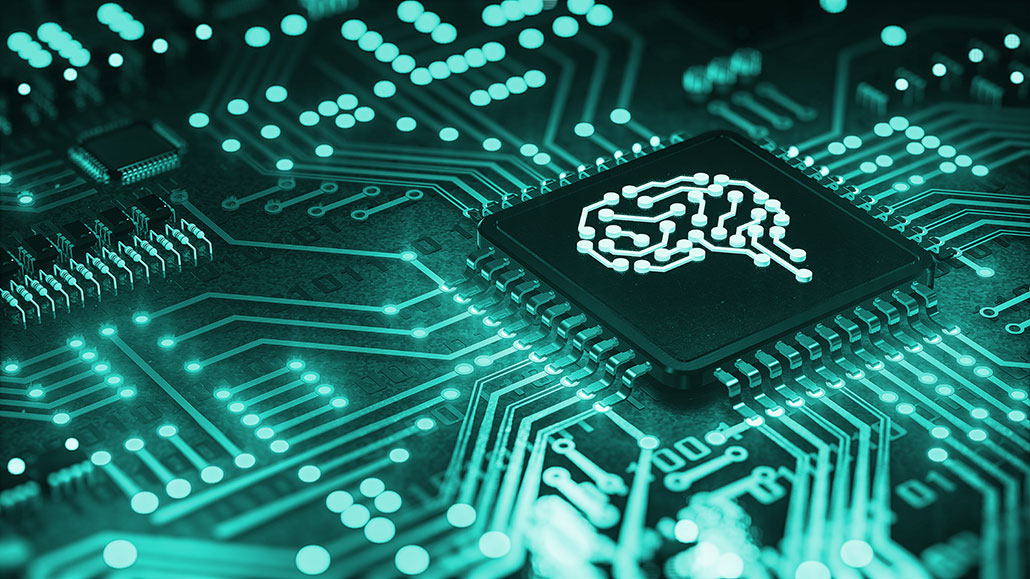
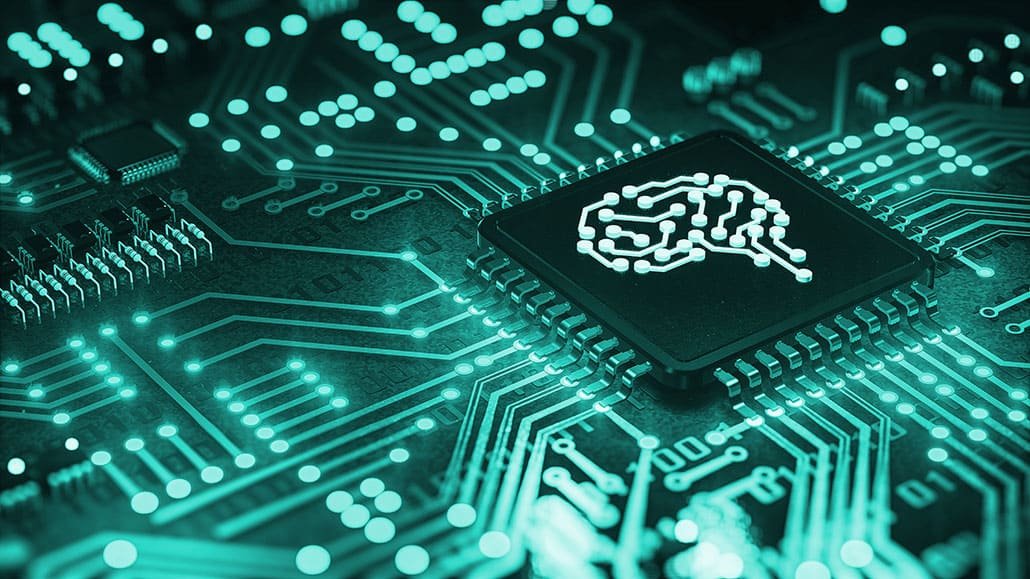
Images Compressed and Progress bas commented

diff --git a/src/components/Event/Events.js b/src/components/Event/Events.js
@@ -71,7 +71,7 @@ const Card = (prop) => {
             </motion.div>
           </div>
 
-        <motion.div
+        {/* <motion.div
           className="progress"
           style={{
             scaleX,
@@ -79,10 +79,11 @@ const Card = (prop) => {
             left: "0",
             right: "0",
             height: "5px",
-            backgroundColor: "black",
+            backgroundColor: "#29ffff",
             bottom: "10px",
+            zIndex: "10"
           }}
-        /> 
+        />  */}
         
     </>
     ))}
